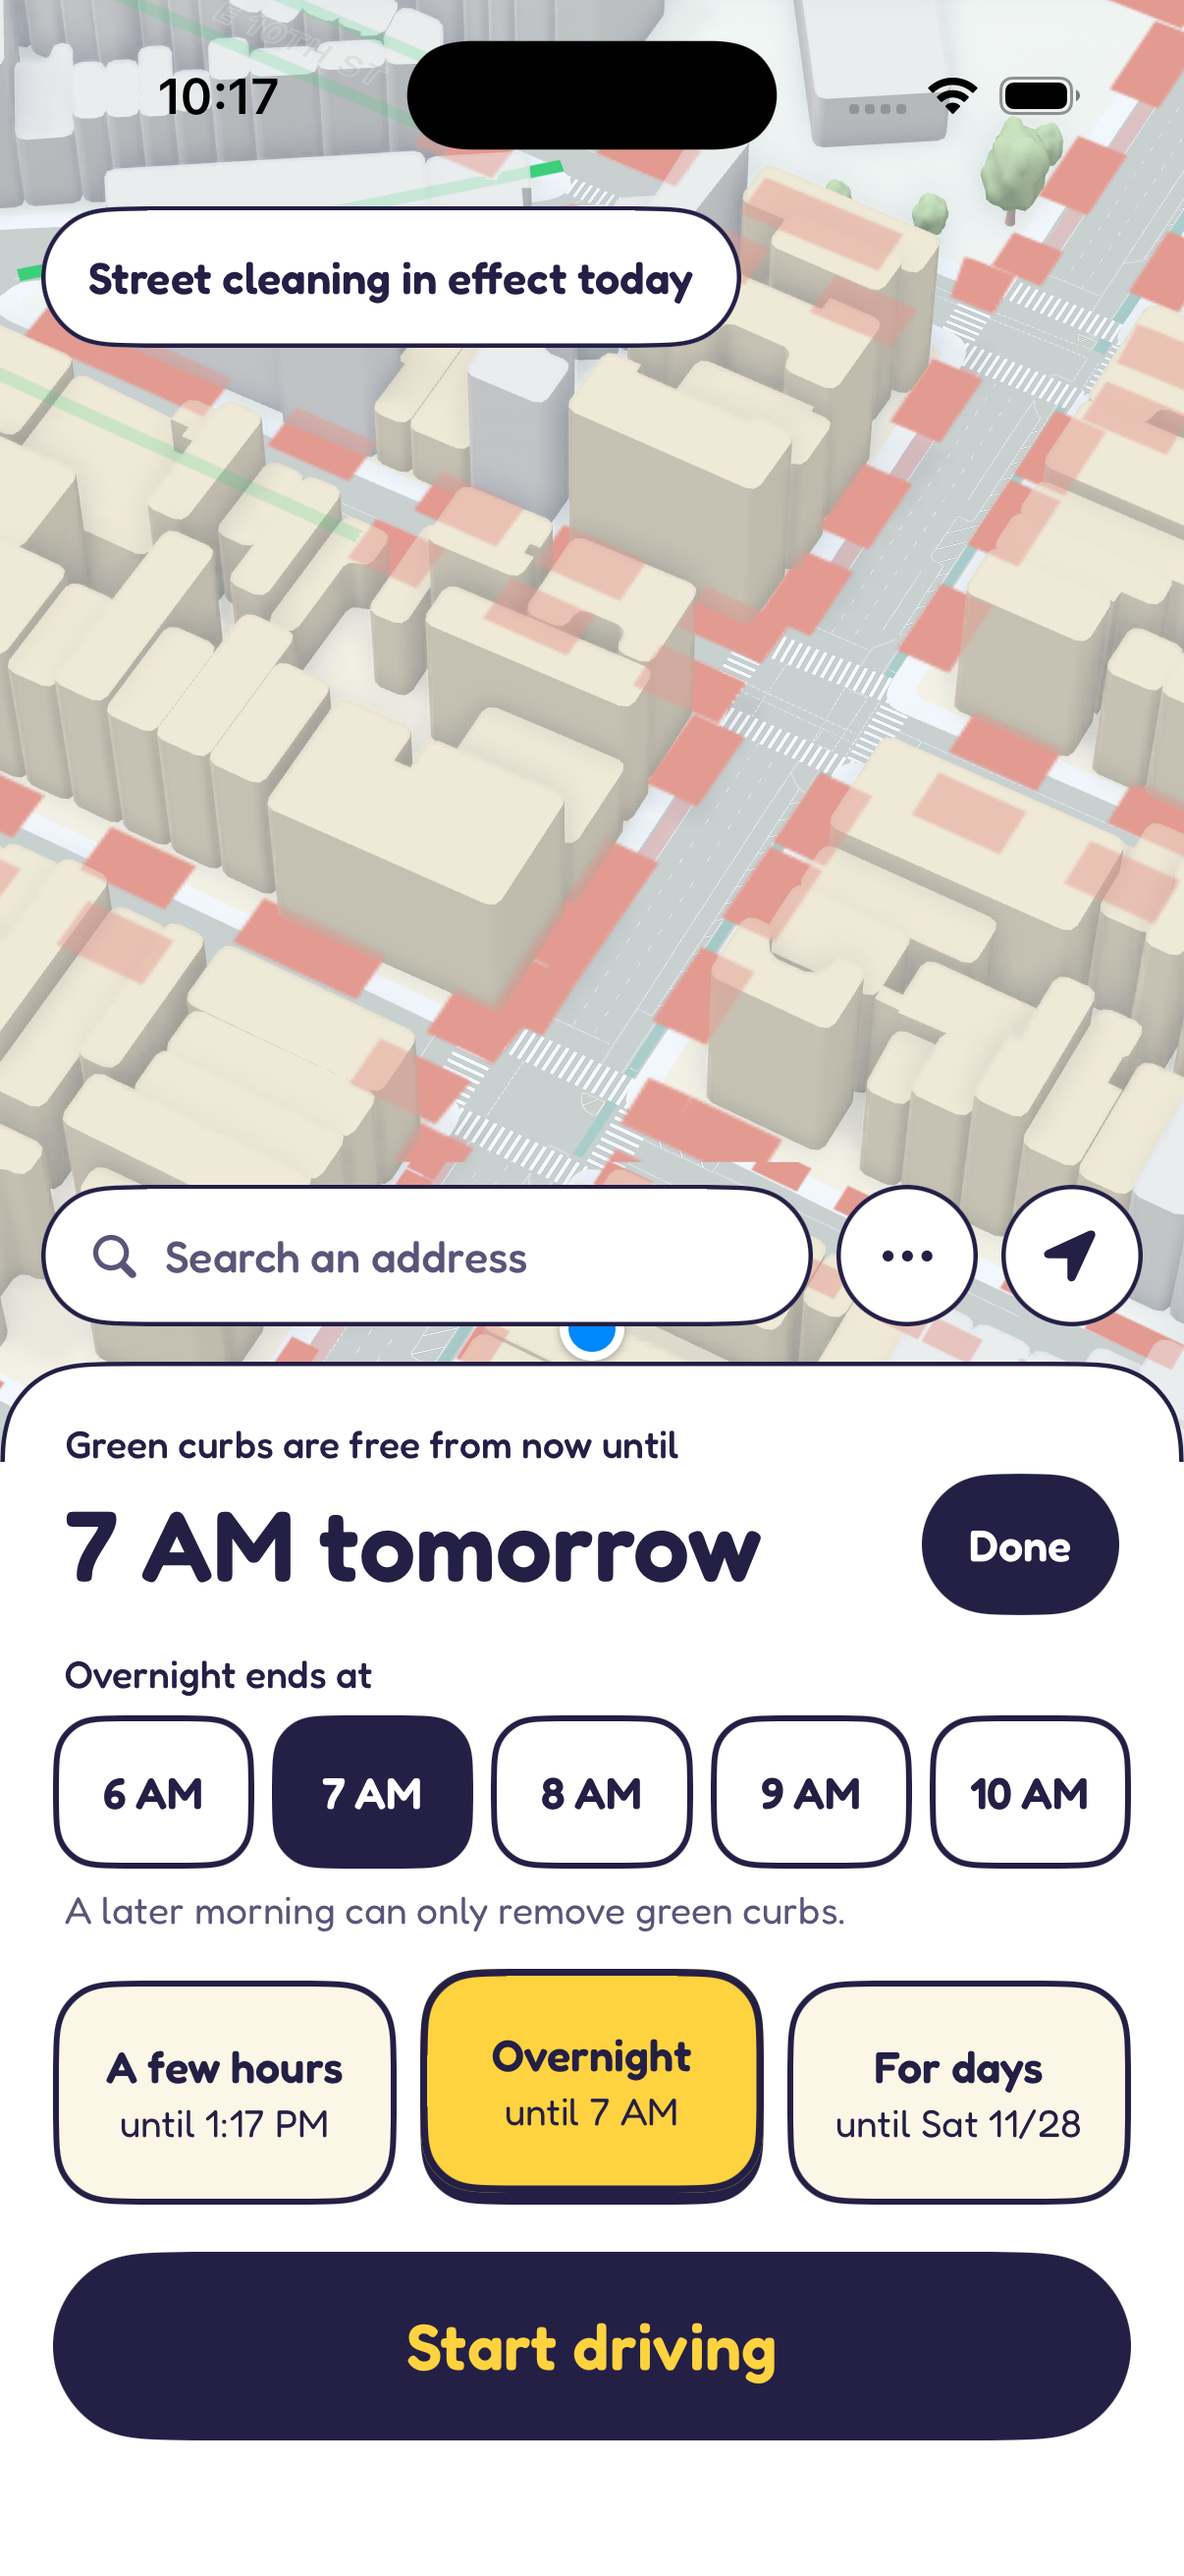
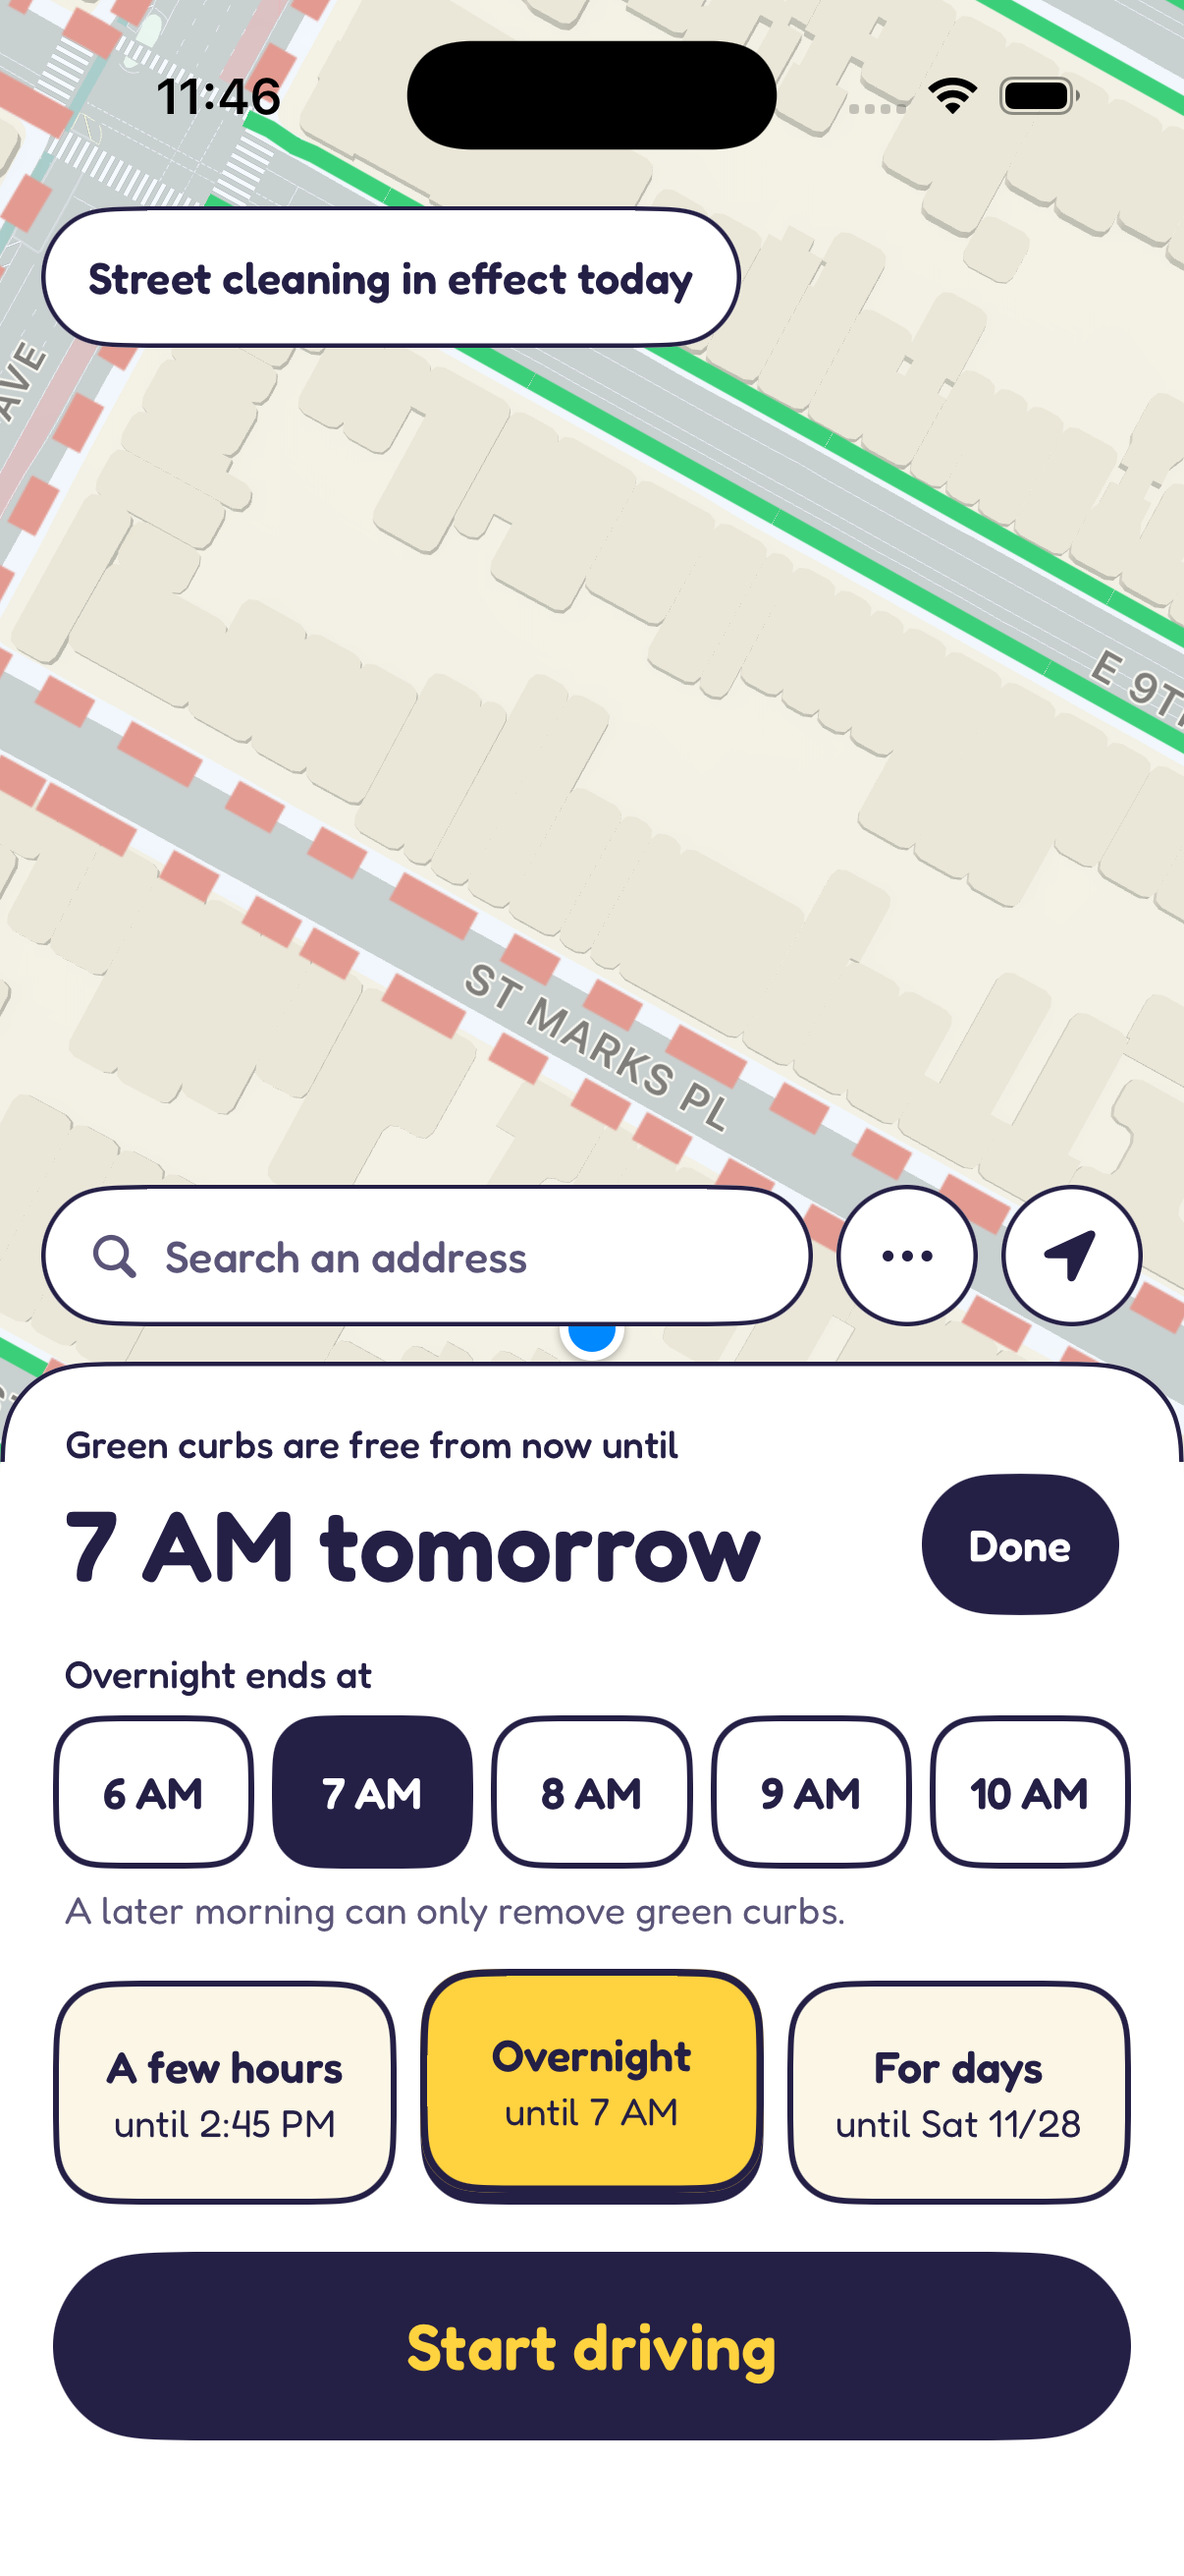
feat(ios): flag-on flat top-down map, #193 no-sign-data gate, re-shot Phase 2a screenshots
Claude-Session: https://claude.ai/code/session_01UjsLLE6XkkjF3CGfnhzwHR

diff --git a/ios/WePark/WeParkTests/Phase2aMapTests.swift b/ios/WePark/WeParkTests/Phase2aMapTests.swift
@@ -39,11 +39,12 @@ final class Phase2aMapTests: XCTestCase {
         _ category: WePark.Category,
         days: [Int] = [],
         ranges: [(Int, Int)] = [],
-        anytime: Bool = false
+        anytime: Bool = false,
+        description: String = ""
     ) -> ParkingRule {
         let dict: [String: Any] = [
             "category": category.rawValue,
-            "description": "",
+            "description": description,
             "days": days,
             "timeRanges": ranges.map { ["start": $0.0, "end": $0.1] },
             "anytime": anytime,
@@ -57,7 +58,7 @@ final class Phase2aMapTests: XCTestCase {
         let ruleJSON = rules.map { rule -> [String: Any] in
             [
                 "category": rule.category.rawValue,
-                "description": "",
+                "description": rule.description,
                 "days": rule.days,
                 "timeRanges": rule.timeRanges.map { ["start": $0.start, "end": $0.end] },
                 "anytime": rule.anytime,
@@ -88,6 +89,21 @@ final class Phase2aMapTests: XCTestCase {
         let empty = makeSegment([])
         XCTAssertTrue(WPCurbVerdict.hasUnreadableSigns(empty))
         for goal in ParkingGoal.allCases { XCTAssertFalse(parkable(empty, goal: goal)) }
+    }
+
+    /// #193's synthetic "NO DATA" rule (restrictive-looking category, NO DATA description) is the
+    /// shared no-sign-data state: never green, and "no data" (not "no parking") in detail mode.
+    func testSyntheticNoDataRule_neverParkable_andIsNoDataInDetail() {
+        let synthetic = makeSegment([makeRule(.noParking, anytime: true, description: "NO DATA: SUPERSEDED SIGN")])
+        XCTAssertTrue(synthetic.hasNoSignData)
+        XCTAssertTrue(WPCurbVerdict.hasUnreadableSigns(synthetic))
+        for goal in ParkingGoal.allCases { XCTAssertFalse(parkable(synthetic, goal: goal)) }
+        XCTAssertEqual(
+            WPCurbVerdict.detailTag(segment: synthetic, engine: engine, from: now, until: now.addingTimeInterval(3600)),
+            .unknown
+        )
+        XCTAssertEqual(CurbLineStyleV2.kind(for: CurrentState.unknown, detailMode: false), .dont)
+        XCTAssertEqual(CurbLineStyleV2.kind(for: CurrentState.unknown, detailMode: true), .noData)
     }
 
     func testUnknownRule_neverParkable_evenWithOtherClearRules() {

diff --git a/ios/WePark/WePark/DesignSystem/WPMapLogic.swift b/ios/WePark/WePark/DesignSystem/WPMapLogic.swift
@@ -18,14 +18,22 @@ import Foundation
 
 enum WPCurbVerdict {
 
-    /// True when the segment carries no readable sign data: no rules at all, or any rule the
-    /// tile pipeline could not classify (`UNKNOWN`). Such a curb must never draw green.
+    /// True when the segment carries no readable sign data: the shared no-sign-data state
+    /// (`Segment.hasNoSignData`: empty rules or the synthetic "NO DATA" rule, which `isFree`
+    /// already treats as never free), or any rule the tile pipeline could not classify
+    /// (`UNKNOWN`). Such a curb never draws green.
     ///
-    /// `ParkingRulesEngine.isFree` treats empty rules as "always free" and ignores `UNKNOWN`
-    /// rules; that is right for the legacy map and untouched, but for the flag-on map unsure
-    /// has to read as "don't park".
+    /// The `UNKNOWN`-category part is a flag-on-only extra: `isFree` still ignores `UNKNOWN`
+    /// rules for the live app (a separate data audit decides that), so only this gate refuses
+    /// them.
     nonisolated static func hasUnreadableSigns(_ segment: Segment) -> Bool {
-        segment.rules.isEmpty || segment.rules.contains { $0.category == .unknown }
+        segment.hasNoSignData || segment.rules.contains { $0.category == .unknown }
+    }
+
+    /// Non-goal fallback state (no window): the engine's current state, except that unreadable
+    /// signs are `.unknown` (the synthetic NO DATA rule would otherwise read as "restricted").
+    nonisolated static func currentState(segment: Segment, engine: ParkingRulesEngine, at now: Date) -> CurrentState {
+        hasUnreadableSigns(segment) ? .unknown : engine.currentState(for: segment, at: now)
     }
 
     /// Base-map green: readable signs AND nothing restricts a private car anywhere in

diff --git a/ios/WePark/WePark/ContentView.swift b/ios/WePark/WePark/ContentView.swift
@@ -3038,7 +3038,9 @@ struct ContentView: View {
             // by the selectedBlock overlay at lineWidth:6 instead.
             if segment.id == selectedSegmentID { continue }
             let state = currentStateCache.value(for: segment.id, key: currentStateKey, compute: {
-                engine.currentState(for: segment, at: now)
+                AppConstants.designSystemV2Enabled
+                    ? WPCurbVerdict.currentState(segment: segment, engine: engine, at: now)
+                    : engine.currentState(for: segment, at: now)
             })
             switch state {
             case .freeComfortably:        freeComfortably.append(coords)
@@ -3056,7 +3058,9 @@ struct ContentView: View {
             let coords = seg.coordinates
             if coords.count >= 2 {
                 selectedCoords = coords
-                selectedState = engine.currentState(for: seg, at: now)
+                selectedState = AppConstants.designSystemV2Enabled
+                    ? WPCurbVerdict.currentState(segment: seg, engine: engine, at: now)
+                    : engine.currentState(for: seg, at: now)
             }
         }
 
@@ -5378,7 +5382,8 @@ struct ContentView: View {
         let span = AmbientDrivingLook.span(for: step, cruiseSpan: MapViewRepresentable.driveModeCameraSpan)
         coordinatorActions.setAmbientDrivingLook?(
             center,
-            MapViewRepresentable.driveModePitch,
+            // Design system flag on: top-down (round-2 mocks). Flag off: today's tilted look.
+            AppConstants.designSystemV2Enabled ? 0 : MapViewRepresentable.driveModePitch,
             AmbientDrivingLook.heading,
             MapViewRepresentable.altitudeForSpan(span),
             animated

diff --git a/ios/WePark/WePark/Views/MapViewRepresentable.swift b/ios/WePark/WePark/Views/MapViewRepresentable.swift
@@ -1288,6 +1288,8 @@ struct MapViewRepresentable: UIViewRepresentable {
         if AppConstants.designSystemV2Enabled {
             let base = MKStandardMapConfiguration(emphasisStyle: .muted)
             base.pointOfInterestFilter = .excludingAll
+            // Flat: no 3D buildings hiding curb lines (round-2 mocks are top-down).
+            base.elevationStyle = .flat
             mapView.preferredConfiguration = base
         }
 
@@ -1498,6 +1500,10 @@ struct MapViewRepresentable: UIViewRepresentable {
             if AppConstants.designSystemV2Enabled, active,
                let standard = target as? MKStandardMapConfiguration {
                 standard.pointOfInterestFilter = .excludingAll
+                // Ambient look (flag on, not driving): flat map. Drive Mode keeps today's.
+                if AppConstants.driveModeDefaultEnabled, !(coordinator?.parent.driveModeActive ?? false) {
+                    standard.elevationStyle = .flat
+                }
             }
             mapView.preferredConfiguration = target
         }
